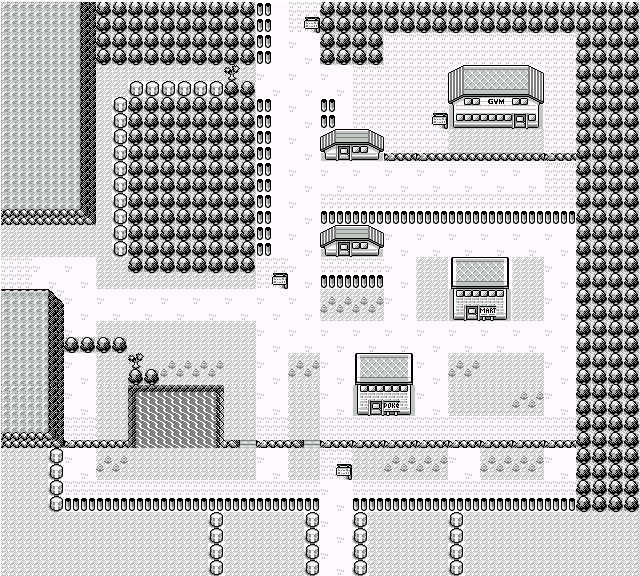
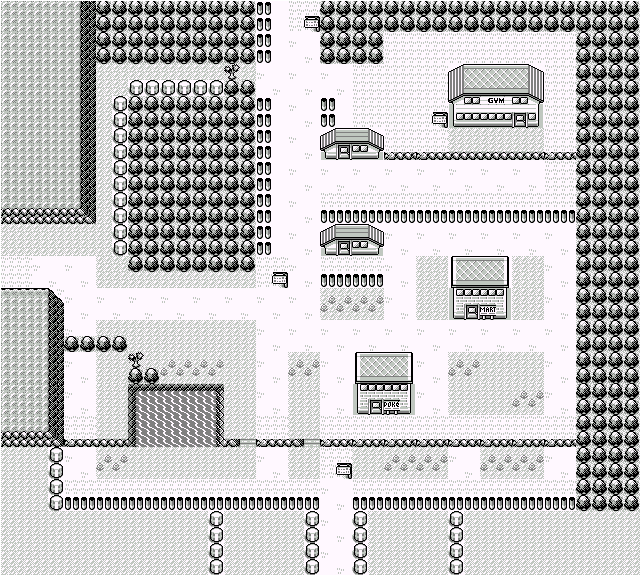
properly align background image

diff --git a/lib/base/background.js b/lib/base/background.js
@@ -35,13 +35,23 @@ class Background {
     let y = this.currentTile[1];
 
     return {
-      x: x * this.spriteWidth - 8,
+      x: x * this.spriteWidth - this.spriteWidth / 2,
       y: y * this.spriteWidth,
     };
   }
 
+  adjustCoords(coords) {
+    // Adjusts coordinates for rendering to compensate for screen height and width
+    let x = coords.x - 4 * this.spriteWidth;
+    let y = coords.y - 4 * this.spriteWidth;
+
+    return { x: x, y: y };
+  }
+
   render() {
     let coords = this.getCurrentCoords();
+
+    let adjustedCoords = this.adjustCoords(coords);
 
     return new Promise((resolve, reject) => {
       try {
@@ -50,8 +60,8 @@ class Background {
 
         this.context.drawImage(
           this.image,
-          coords.x,
-          coords.y,
+          adjustedCoords.x,
+          adjustedCoords.y,
           this.width,
           this.height,
           0,
@@ -153,13 +163,16 @@ class Background {
           yDiff += 2;
         }
 
+        let newCoords = { x: coords.x - xDiff, y: coords.y - yDiff };
+        newCoords = this.adjustCoords(newCoords);
+
         this.context.clearRect(this.xLoc, this.yLoc, this.width * this.scaling,
           this.height * this.scaling);
 
         this.context.drawImage(
           this.image,
-          coords.x - xDiff,
-          coords.y - yDiff,
+          newCoords.x,
+          newCoords.y,
           this.width,
           this.height,
           0,

diff --git a/demo/demo.js b/demo/demo.js
@@ -16,7 +16,7 @@ document.addEventListener('DOMContentLoaded', () => {
   let demoGame = new VCGame({
     scaling: 3,
     tileSize: 16,
-    startTile: [0, 0],
+    startTile: [18, 20],
   });
 
   demoGame.addMainCharacter({
@@ -26,8 +26,8 @@ document.addEventListener('DOMContentLoaded', () => {
   demoGame.addBackground({
     canvas: bgCanvas,
     image: bgImage,
-    height: 640,
-    width: 576,
+    width: 640,
+    height: 576,
   });
 
   for (let i = 0; i < 40 * 36 - 1; i++) {
